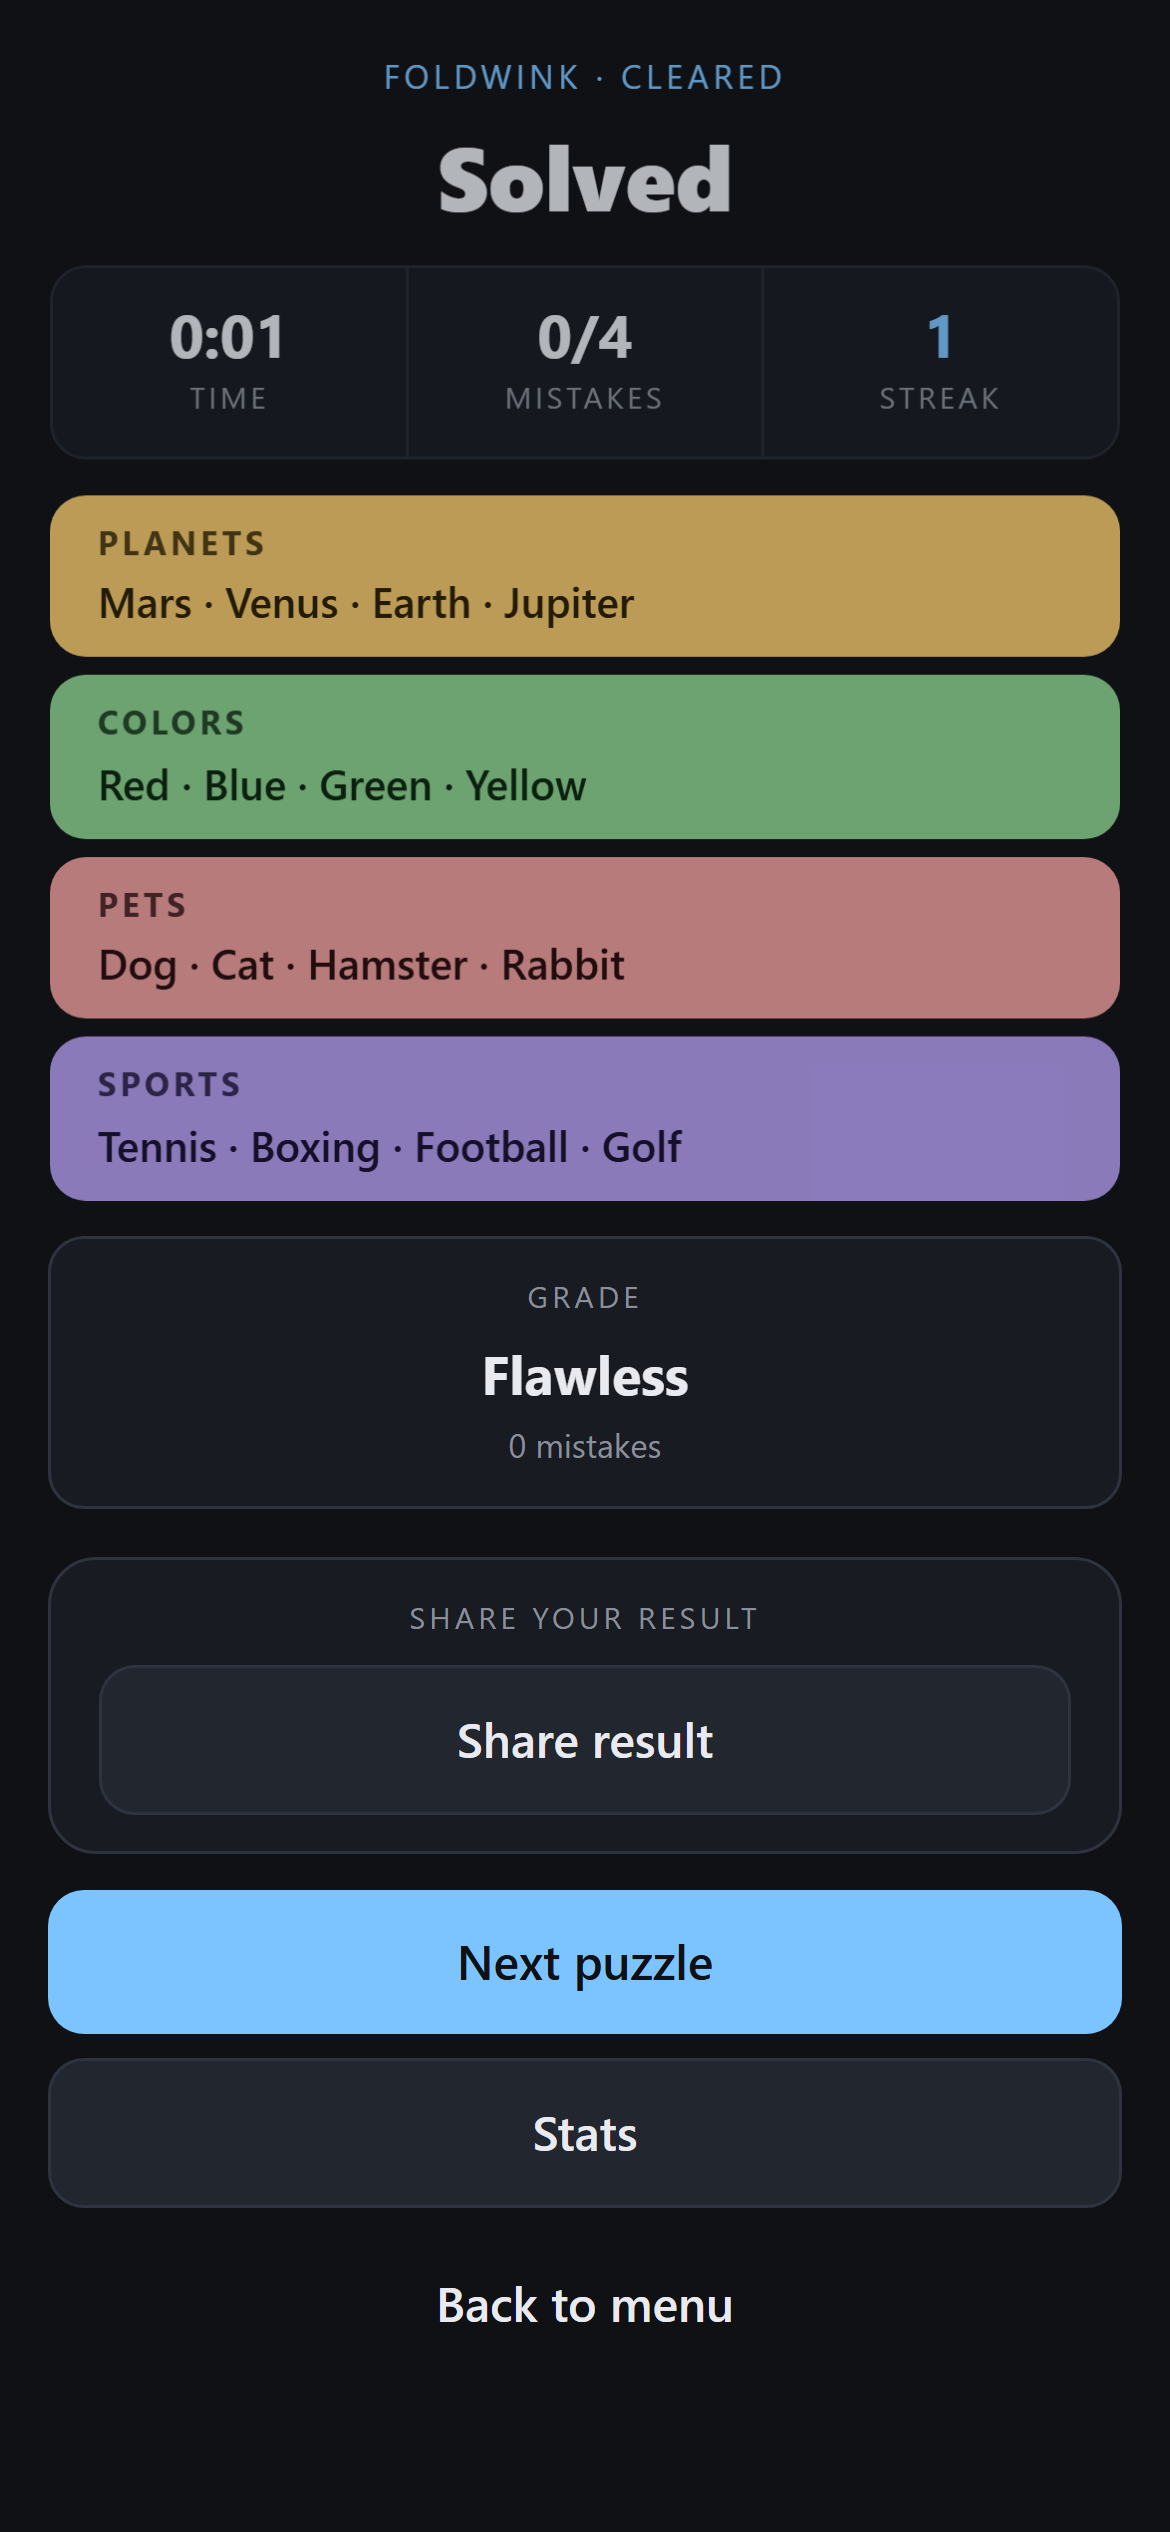
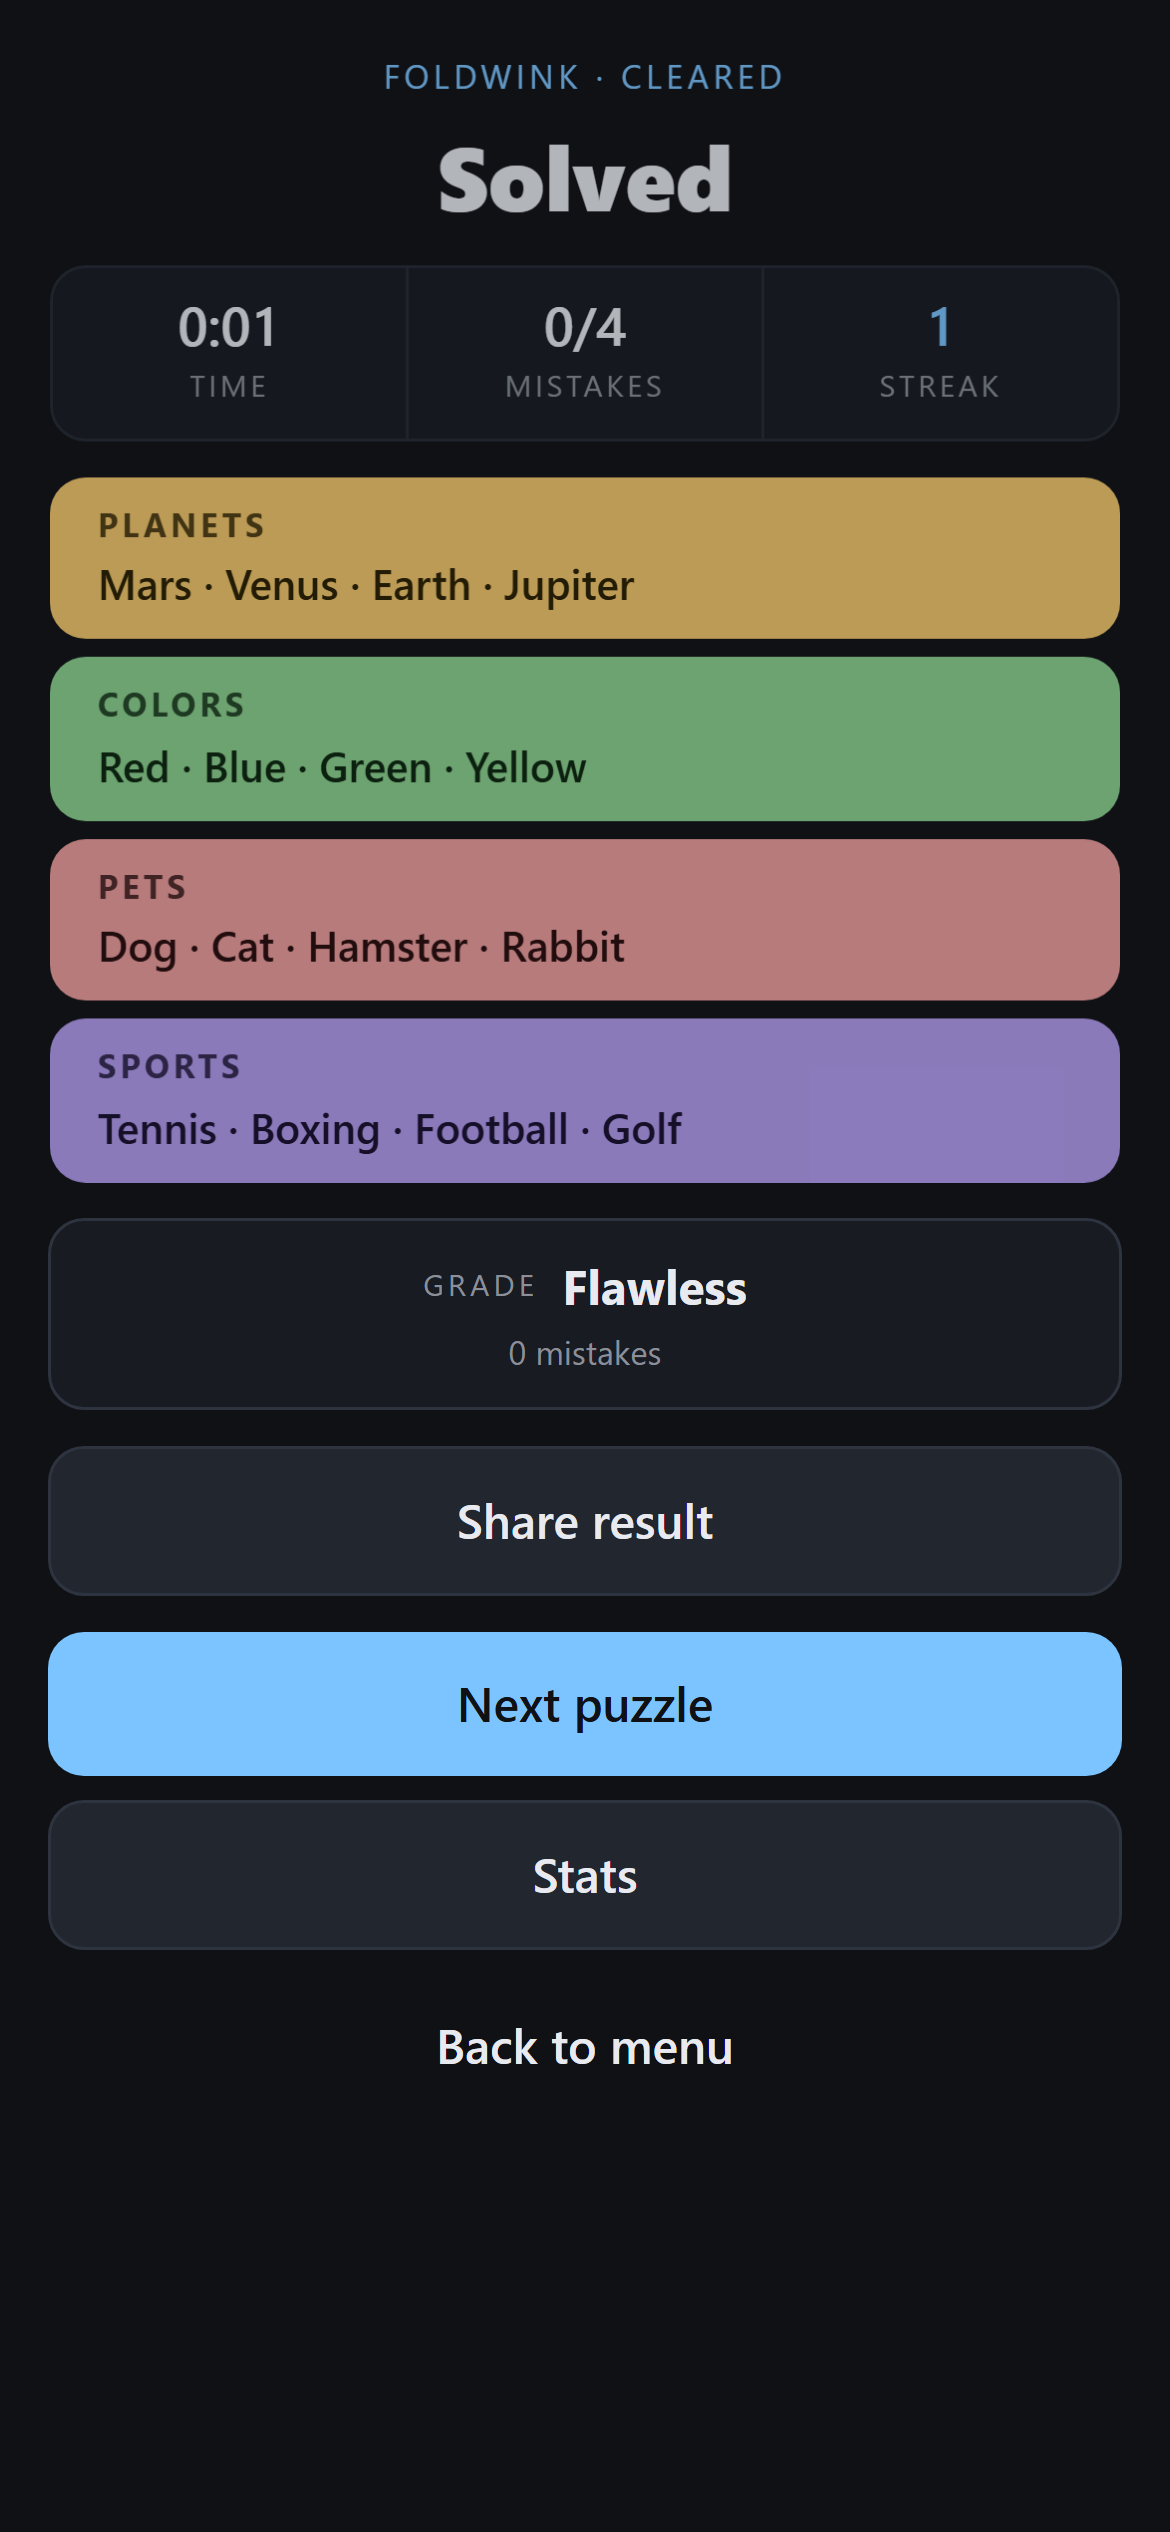
fix(mobile): solved/stats screens fit iPhone viewport, CTA clears Safari toolbar
The Stats "Back to menu" button and Solved "Next puzzle / Stats / Back to
menu" stack were being overlapped by iOS Safari's bottom toolbar on the
itch.io inline embed — documents were tall enough that the last CTA sat
behind browser chrome. Three coordinated fixes:

1. Remove the streak-celebration card on the Solved screen — it
   duplicated the Streak value already rendered in the stats strip at
   the top. Fold the "new best streak" accent signal into the Grade
   caption instead, so no information is lost.
2. Collapse the Daily-countdown card into a single inline line and drop
   the Share-card wrapper so Share is just the primary button — saves
   ~140px on the result screen without removing anything meaningful.
3. Compact StatsScreen: 4x1 stat cells instead of 2x2, shorter labels
   (Avg miss / Med W% / Winks), and tighter padding. Saves ~240px.
4. Grow `.fw-safe-pb` on mobile from `1rem + safe-area-inset-bottom` to
   `4.5rem + safe-area-inset-bottom` so the last CTA always clears the
   iOS Safari bottom toolbar, which is not part of env(safe-area-inset).
5. Darken the Onboarding overlay from bg-black/75 to bg-black/85 +
   backdrop-blur, so the menu wordmark no longer competes with the
   modal copy.
6. Soften StatStrip: text-xl semibold instead of text-2xl bold, mellower
   presence on the game-timer / result hero rows.

Measured: Stats docH=844/vh=844/overflow=0 + Back-to-menu at y=460 after
[…]

diff --git a/src/screens/ResultScreen.tsx b/src/screens/ResultScreen.tsx
@@ -70,7 +70,11 @@ export function ResultScreen() {
     winkAvailable: puzzle.difficulty === "medium",
   };
 
-  const showStreakCelebration = isWin && streakDelta > 0 && stats.currentStreak >= 2;
+  // The streak-celebration card was redundant with the Streak value that
+  // already appears in the stats strip at the top of the result. Its only
+  // irreplaceable signal was the "new best" accent — we fold that into
+  // the Grade caption instead so nothing is lost.
+  const showNewBest = isWin && streakDelta > 0 && newBest && stats.bestStreak >= 3;
 
   return (
     <div className="max-w-md mx-auto" data-testid="result-screen">
@@ -78,34 +82,36 @@ export function ResultScreen() {
 
       {isWin && (
         <div
-          className={`mt-3 rounded-xl px-4 py-3 text-center border ${
-            grade.noWinkMedium ? "bg-surface border-accent/60" : "bg-surface border-[#2e343f]"
+          className={`mt-3 rounded-xl px-4 py-2.5 text-center border ${
+            grade.noWinkMedium || showNewBest
+              ? "bg-surface border-accent/60"
+              : "bg-surface border-[#2e343f]"
           }`}
         >
-          <div className="text-[10px] uppercase tracking-[0.14em] text-muted mb-1">Grade</div>
-          <div
-            className={`text-lg font-bold ${grade.noWinkMedium ? "text-accent" : "text-text"}`}
-          >
-            {grade.label}
+          <div className="flex items-center justify-center gap-2">
+            <span className="text-[10px] uppercase tracking-[0.14em] text-muted">
+              Grade
+            </span>
+            <span
+              className={`text-base font-bold ${
+                grade.noWinkMedium || showNewBest ? "text-accent" : "text-text"
+              }`}
+            >
+              {grade.label}
+            </span>
           </div>
-          {grade.caption && (
-            <div className="text-[11px] text-muted mt-0.5">{grade.caption}</div>
+          {(grade.caption || showNewBest) && (
+            <div className="text-[11px] text-muted mt-0.5">
+              {showNewBest ? (
+                <>
+                  <span className="text-accent">✦ New best streak {stats.bestStreak}</span>
+                  {grade.caption && <span className="opacity-70"> · {grade.caption}</span>}
+                </>
+              ) : (
+                grade.caption
+              )}
+            </div>
           )}
-        </div>
-      )}
-
-      {showStreakCelebration && (
-        <div className="mt-5 flex items-center justify-center gap-2 rounded-xl bg-surface border border-accent/60 px-4 py-3 fw-streak-pulse">
-          <span className="text-accent text-lg" aria-hidden="true">
-            ✦
-          </span>
-          <span className="text-sm">
-            Streak{" "}
-            <span className="font-bold text-text tabular-nums">{stats.currentStreak}</span>
-            {newBest && stats.bestStreak >= 3 && (
-              <span className="text-accent"> · new best</span>
-            )}
-          </span>
         </div>
       )}
 
@@ -124,15 +130,12 @@ export function ResultScreen() {
       )}
 
       {isDaily && (
-        <div className="mt-3 rounded-xl bg-surface border border-[#2e343f] px-4 py-3">
+        <div className="mt-3 text-center text-[11px] text-muted">
           <DailyCountdown />
         </div>
       )}
 
-      <div className="mt-4 rounded-2xl bg-surface border border-[#2e343f] px-4 py-3">
-        <div className="text-[10px] uppercase tracking-[0.14em] text-muted text-center mb-2">
-          Share your result
-        </div>
+      <div className="mt-3">
         <ShareButton text={shareText} card={cardOptions} />
       </div>
 

diff --git a/src/screens/StatsScreen.tsx b/src/screens/StatsScreen.tsx
@@ -6,9 +6,9 @@ import { DailyArchive } from "../components/DailyArchive";
 
 function StatCell({ label, value }: { label: string; value: string | number }) {
   return (
-    <div className="flex flex-col items-center bg-surface rounded-xl px-4 py-3 border border-[#262a33]">
-      <div className="text-2xl font-bold tabular-nums">{value}</div>
-      <div className="text-[10px] text-muted uppercase tracking-[0.12em] mt-1">{label}</div>
+    <div className="flex flex-col items-center bg-surface rounded-xl px-3 py-2 border border-[#262a33]">
+      <div className="text-xl font-bold tabular-nums leading-tight">{value}</div>
+      <div className="text-[10px] text-muted uppercase tracking-[0.12em] mt-0.5">{label}</div>
     </div>
   );
 }
@@ -32,7 +32,7 @@ export function StatsScreen() {
     <div className="max-w-md mx-auto">
       <Wordmark size="sm" subtitle="Your Foldwink record" />
 
-      <div className="mt-6">
+      <div className="mt-4">
         <StatStrip
           cells={[
             {
@@ -49,7 +49,7 @@ export function StatsScreen() {
         />
       </div>
 
-      <div className="mt-4 grid grid-cols-2 gap-2">
+      <div className="mt-2 grid grid-cols-4 gap-2">
         <StatCell label="Wins" value={stats.wins} />
         <StatCell label="Losses" value={stats.losses} />
         <StatCell label="Streak" value={stats.currentStreak} />
@@ -57,28 +57,28 @@ export function StatsScreen() {
       </div>
 
       {stats.gamesPlayed > 0 && (
-        <div className="mt-6">
-          <div className="text-[10px] uppercase tracking-[0.14em] text-muted text-center mb-2">
+        <div className="mt-4">
+          <div className="text-[10px] uppercase tracking-[0.14em] text-muted text-center mb-1.5">
             Depth
           </div>
-          <div className="grid grid-cols-2 gap-2">
+          <div className="grid grid-cols-4 gap-2">
             <StatCell label="Flawless" value={flawlessWins} />
-            <StatCell label="Avg mistakes" value={avgMistakes.toFixed(1)} />
-            <StatCell label="Medium win %" value={`${mediumWinRate}%`} />
-            <StatCell label="Winks spent" value={winkUses} />
+            <StatCell label="Avg miss" value={avgMistakes.toFixed(1)} />
+            <StatCell label="Med W%" value={`${mediumWinRate}%`} />
+            <StatCell label="Winks" value={winkUses} />
           </div>
         </div>
       )}
 
-      <div className="mt-6">
-        <div className="text-[10px] uppercase tracking-[0.14em] text-muted text-center mb-2">
+      <div className="mt-4">
+        <div className="text-[10px] uppercase tracking-[0.14em] text-muted text-center mb-1.5">
           Daily history
         </div>
         <DailyArchive />
       </div>
 
       {stats.gamesPlayed === 0 && (
-        <div className="mt-6 rounded-xl bg-surface border border-[#2e343f] px-4 py-4 text-center">
+        <div className="mt-4 rounded-xl bg-surface border border-[#2e343f] px-4 py-3 text-center">
           <div className="text-[10px] uppercase tracking-[0.14em] text-muted mb-1">
             Empty record
           </div>
@@ -88,7 +88,7 @@ export function StatsScreen() {
         </div>
       )}
 
-      <div className="mt-6">
+      <div className="mt-4">
         <Button variant="secondary" onClick={goToMenu} className="w-full">
           Back to menu
         </Button>

diff --git a/src/styles/index.css b/src/styles/index.css
@@ -44,14 +44,21 @@ button {
 /*
  * Safe-area aware bottom padding on the main scroll flow.
  *
- * The last CTA on the result screen ("Next puzzle" / "Back to menu") must
- * always be reachable — iOS home-indicator and Android gesture nav
- * sometimes obscure the last 12–24px of the layout viewport. Pad the main
- * column by `env(safe-area-inset-bottom)` plus a baseline so the CTA
- * stack always clears the bottom system UI.
+ * The last CTA on the result / stats / menu screens must always be
+ * reachable. Two systems take bites out of the layout viewport on
+ * mobile:
+ *   1) home indicator (iPhone) / gesture nav (Android) — handled by
+ *      env(safe-area-inset-bottom).
+ *   2) the iOS Safari bottom toolbar + the fact that itch.io's mobile
+ *      iframe embeds can overlap our last 40–60px — not part of the
+ *      safe-area inset because it is browser chrome, not platform UI.
+ *
+ * We pad the main column by a generous baseline + the safe-area inset on
+ * mobile so CTAs always clear the Safari toolbar. On sm+ viewports we
+ * shrink the baseline because there's no overlap risk.
  */
 .fw-safe-pb {
-  padding-bottom: calc(1rem + env(safe-area-inset-bottom, 0px));
+  padding-bottom: calc(4.5rem + env(safe-area-inset-bottom, 0px));
 }
 @media (min-width: 640px) {
   .fw-safe-pb {

diff --git a/src/components/StatStrip.tsx b/src/components/StatStrip.tsx
@@ -31,12 +31,12 @@ export function StatStrip({ cells }: Props) {
       {cells.map((cell, i) => (
         <div
           key={cell.label}
-          className={`flex-1 flex flex-col items-center justify-center px-3 py-3 min-w-0 ${
+          className={`flex-1 flex flex-col items-center justify-center px-3 py-2.5 min-w-0 ${
             i > 0 ? "border-l border-[#262a33]" : ""
           }`}
         >
           <div
-            className={`text-xl sm:text-2xl font-bold tabular-nums leading-none truncate ${
+            className={`text-lg sm:text-xl font-semibold tabular-nums leading-none truncate ${
               TONE_CLS[cell.tone ?? "default"]
             }`}
           >

diff --git a/src/components/Onboarding.tsx b/src/components/Onboarding.tsx
@@ -8,7 +8,7 @@ interface Props {
 export function Onboarding({ onDismiss }: Props) {
   return (
     <div
-      className="fixed inset-0 z-50 flex items-center justify-center bg-black/75 p-4"
+      className="fixed inset-0 z-50 flex items-center justify-center bg-black/85 backdrop-blur-sm p-4"
       role="dialog"
       aria-modal="true"
       aria-label="How to play Foldwink"
